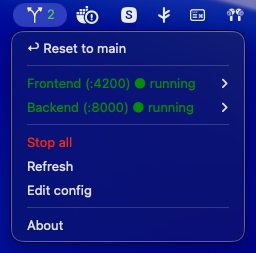
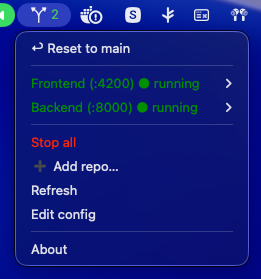
Visual repo management: add / edit / remove via native dialogs (#5)
* Add visual first-run setup and Add-repo wizard

Replace the hand-edit-the-zsh-file onboarding with a native macOS flow:

- New "Add repo…" wizard (do_addrepo) uses a Finder folder picker
  (choose folder) plus display-dialog prompts for name, port, and start
  command, validates the folder is a git checkout, derives a unique array
  key, and appends a repo block to the config — no file editing needed.
- First launch with no repos now shows a welcoming, actionable screen
  ("Add your first repo…") instead of a dead-end "No config found" error.
- A persistent "Add repo…" item lives in the footer for adding more.
- ensure_config seeds a well-formed empty config on demand.
- Inputs are escaped for both AppleScript and zsh config literals.
- smoke-test.sh: add coverage for the welcome screen and a stubbed-dialog
  run of the full add-repo wizard (asserts a sourceable config block).
- README/config: document the visual setup as the primary path.

* Add visual Edit/Remove repo to each submenu

Round out the visual repo management with the same native-dialog UI:

- do_editrepo re-prompts name / port / command pre-filled with the current
  values; the array key stays stable so attached state and PR cache survive.
  If the Open URL was the plain localhost default it follows a port change.
- do_removerepo confirms, drops the repo from the config, and tidies its
  state/cache files. The git repo, worktrees, and any running server are
  left untouched.
[…]

diff --git a/README.md b/README.md
@@ -22,7 +22,10 @@ headless, with output going to a log.
 │   ├─ Open http://localhost:4200
 │   ├─ ↻ Restart current
 │   ├─ Stop server
-│   └─ Stream log
+│   ├─ Stream log
+│   ├─ ─────────
+│   ├─ ✎ Edit repo…           ← same dialogs, pre-filled
+│   └─ ✕ Remove repo…         ← drops it from the menu only
 ├─ Backend (:8000) ○ stopped
 │   ├─    main  —  backend-repo
 │   ├─    codex/integration-tests  —  backend-repo
@@ -31,6 +34,7 @@ headless, with output going to a log.
 │   └─ Stream log
 ├─ ─────────
 ├─ Stop all
+├─ ➕ Add repo…             ← native folder picker + a couple of prompts
 ├─ Refresh
 └─ Edit config
 ```
@@ -115,8 +119,21 @@ rendering, and the action dispatcher without touching your real repos or ports.
 
 ## Configure
 
-Edit `~/.treeswitch/config.zsh` (or use the menu's **Edit config**). Each
-repo is a key in `REPO_KEYS` with matching entries in the arrays:
+**No config file to write by hand.** On first launch the menu shows a
+**➕ Add your first repo…** item; the same **➕ Add repo…** lives in the footer
+afterwards. It opens a native Finder **folder picker** for the repo, then prompts
+for a name, a port, and the start command — and writes the config block for you.
+The repo is validated as a real git checkout before it's added.
+
+Each repo's submenu also has **✎ Edit repo…** (the same prompts, pre-filled) and
+**✕ Remove repo…** (drops it from the menu only — your repo, worktrees, and any
+running server are untouched). Edit/Remove rewrite the config to a canonical form
+and save the previous version as `config.zsh.bak`, so a hand-written layout with
+comments or `$HOME` paths gets normalized on the first edit (nothing is lost).
+
+Prefer editing by hand? Open `~/.treeswitch/config.zsh` (the menu's **Edit
+config** opens it). Each repo is a key in `REPO_KEYS` with matching entries in
+the arrays:
 
 | field         | meaning                                              |
 |---------------|------------------------------------------------------|